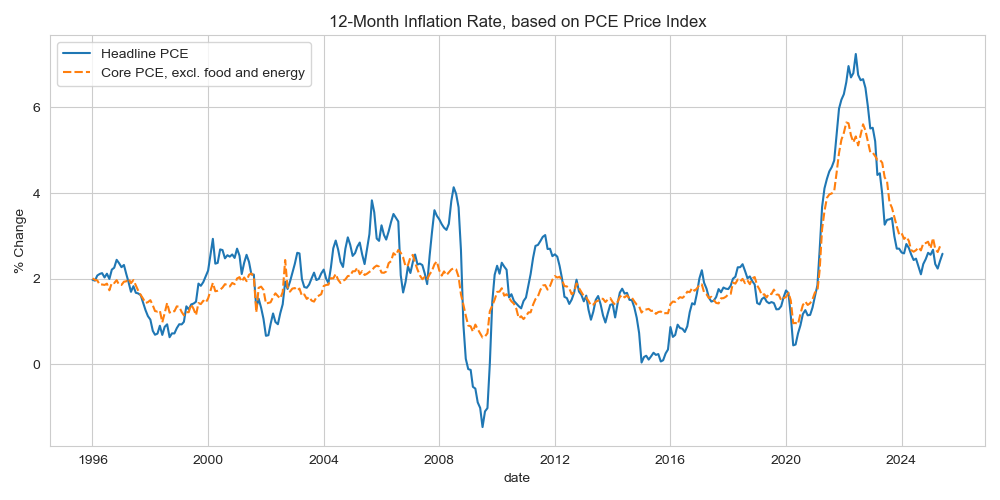
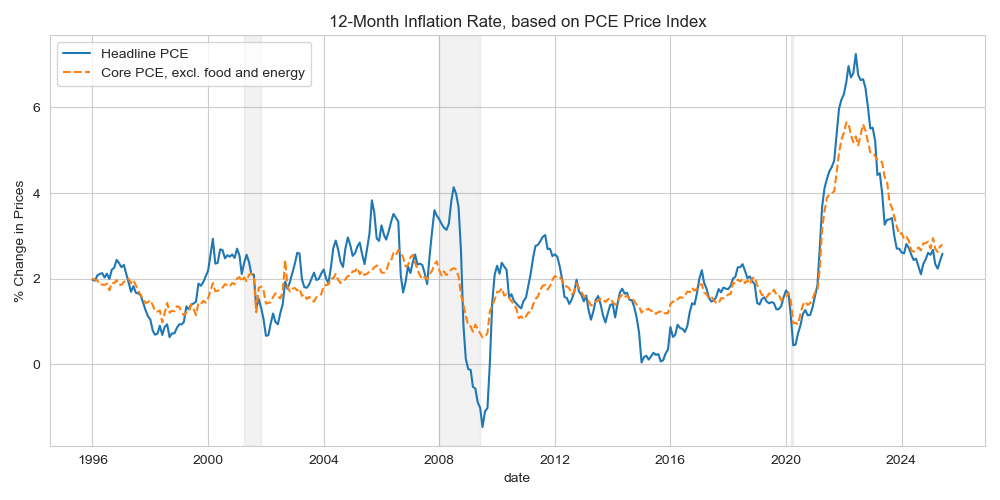
330 HW1,Q1 - fiddle with styling on graph
I changed the column labels to be more concise but worse for labels, and switched to using explicit individual lineplot calls.

But this made the linestyle of the second graph revert to solid. Which confuses me because on its own, the df plotting wasn't dashed, but the df plotting with seaborn was?  But the individual seaborn plotting wasn't?
And why aren't the dash patterns the same?

Ah well, none of this matters.

diff --git a/330/hw/hw1-inflation/hw1-inflation.py b/330/hw/hw1-inflation/hw1-inflation.py
@@ -5,6 +5,19 @@ import csv
 import matplotlib.pyplot as plt
 import seaborn as sns
 
+#%% Recession shading Function
+import os
+from fredapi import Fred
+fred = Fred(api_key = os.getenv('FRED_API_KEY'))
+def shade_recessions(ax):
+    xlims = ax.get_xlim()
+    recessions = fred.get_series('USREC')
+    ax.fill_between(recessions.index, 
+                    0, 1, where=recessions==1, 
+                    alpha=0.1, color='gray', 
+                    transform=ax.get_xaxis_transform())
+    ax.set_xlim(xlims)
+
 
 #%% READ BEA 2.8.4 CSV (weird format)
 with open('BEA2.8.4.csv', newline='', encoding='utf-8') as csvfile:
@@ -27,30 +40,26 @@ for row in rows[5:]:
     label = row[1].strip()
     series = [float(x) if x else np.nan for x in row[2:]]
     df[label] = series
-df
+
+
 
 #%% PROBLEM 1: Plot PCE and PCE excluding food and energy
 
-df['Headline PCE'] = df['Personal consumption expenditures (PCE)'].pct_change(periods=12) * 100
-df['Core PCE, excl. food and energy'] = df['PCE excluding food and energy4'].pct_change(periods=12) * 100
+df['π_pce'] = df['Personal consumption expenditures (PCE)'].pct_change(periods=12) * 100
+df['π_pce_core'] = df['PCE excluding food and energy4'].pct_change(periods=12) * 100
 
-df[['Headline PCE','Core PCE, excl. food and energy']].plot(
-    title='12-Month Inflation Rate, based on PCE Price Index', 
-    figsize=(10,5)
-    )
-plt.ylabel('% Change in Prices')
-plt.grid(True)
-plt.savefig('HW1_Q1_PCE_pct_change.png')
-
-## %% Seaborn Equivalent.
 sns.set_style("whitegrid")
 plt.figure(figsize=(10, 5))
-sns.lineplot(data=df[['Headline PCE', 'Core PCE, excl. food and energy']])
+
+sns.lineplot(data=df, x=df.index, y='π_pce', label='Headline PCE')
+sns.lineplot(data=df, x=df.index, y='π_pce_core', label='Core PCE, excl. food and energy', linestyle='--')
 
 plt.title('12-Month Inflation Rate, based on PCE Price Index')
-plt.ylabel('% Change')
-plt.tight_layout()
+plt.ylabel('% Change in Prices')
+shade_recessions(plt.gca())
 
+plt.grid(True)
+plt.tight_layout()
 plt.savefig('HW1_Q1_PCE_pct_change.png')
 
 
@@ -58,4 +67,4 @@ plt.savefig('HW1_Q1_PCE_pct_change.png')
 
 
 
-# %%
+#%%
